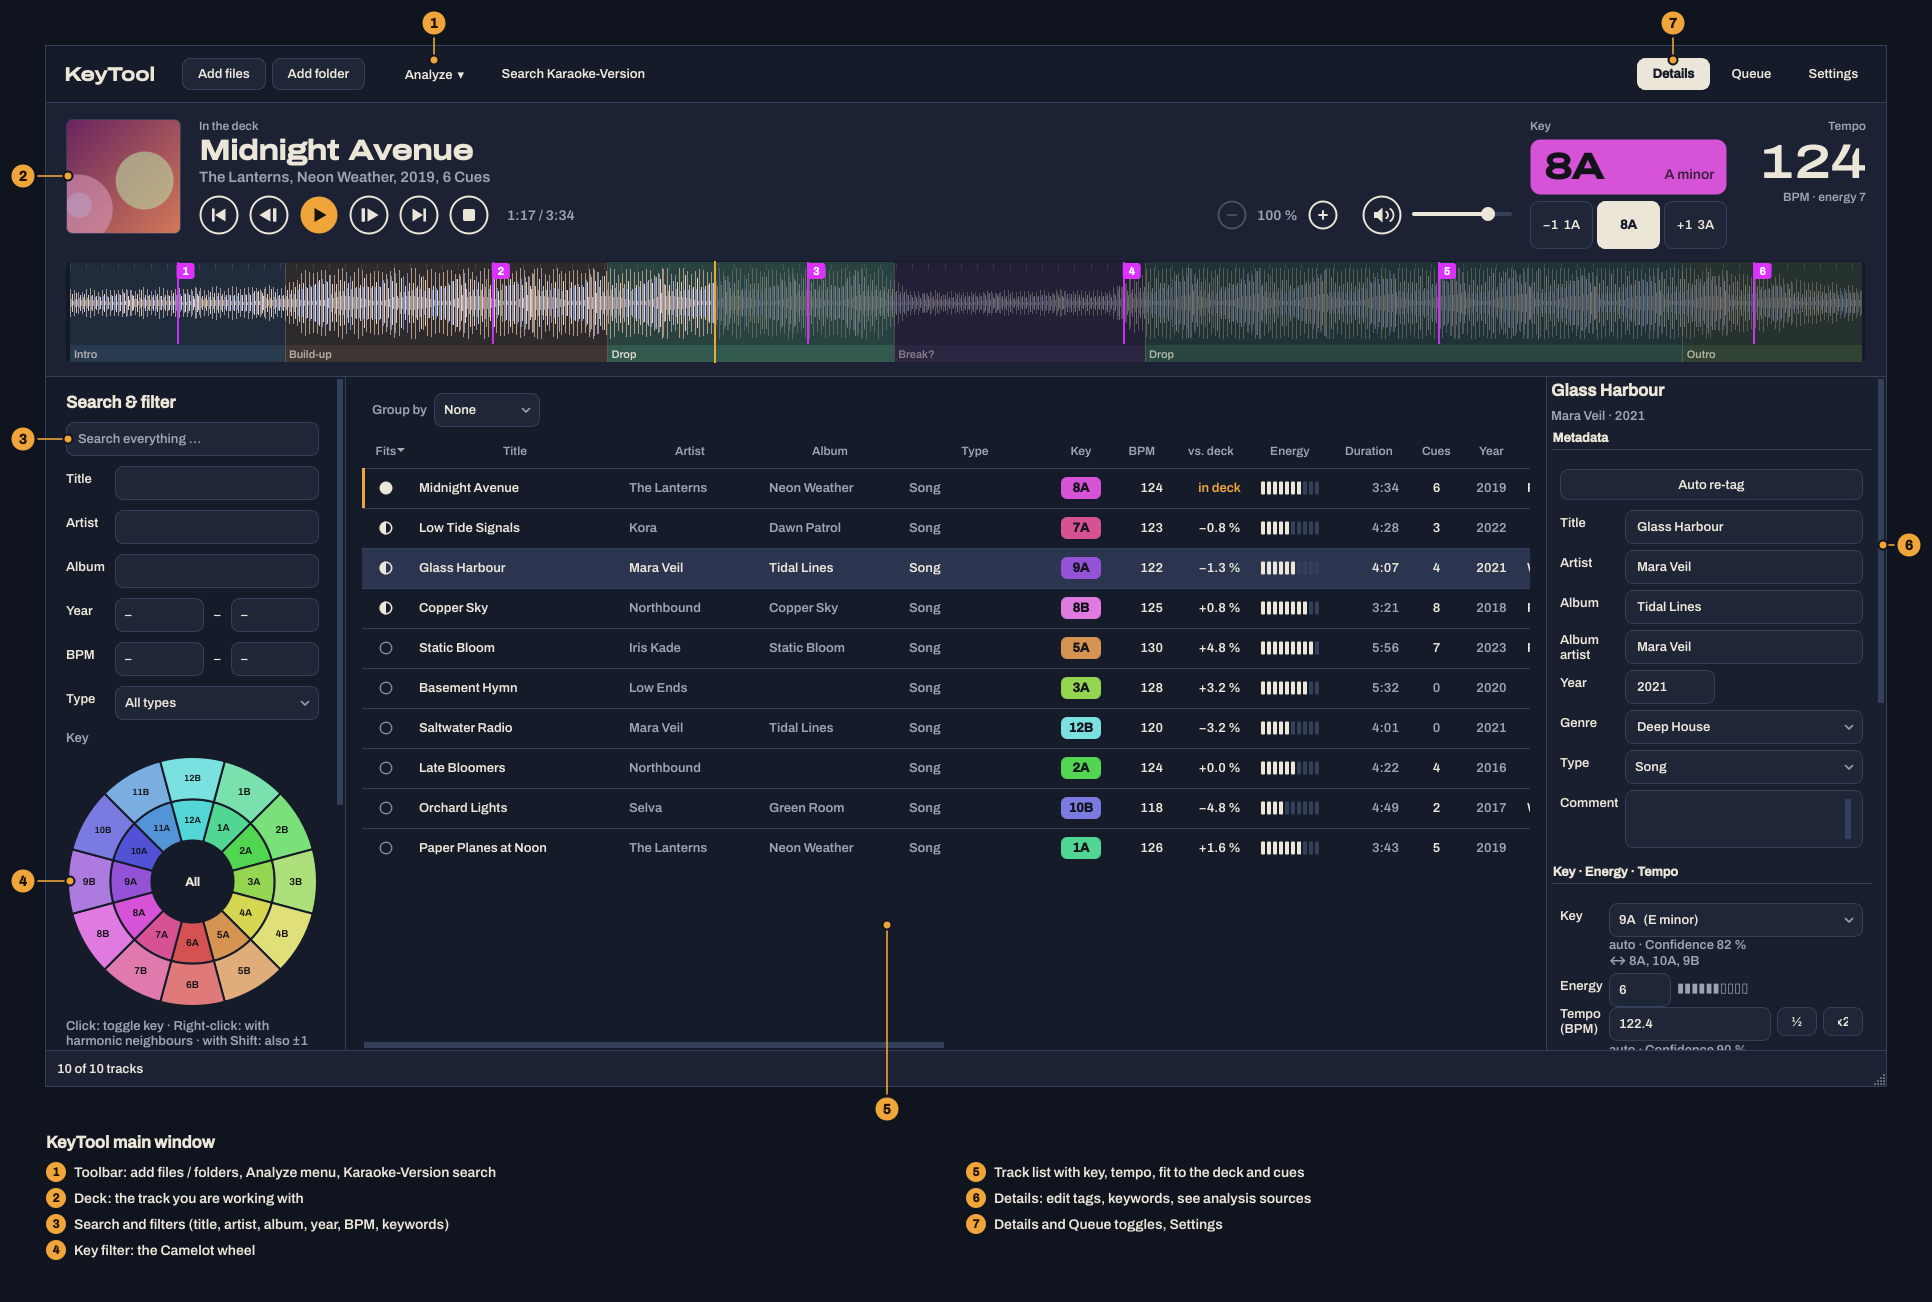
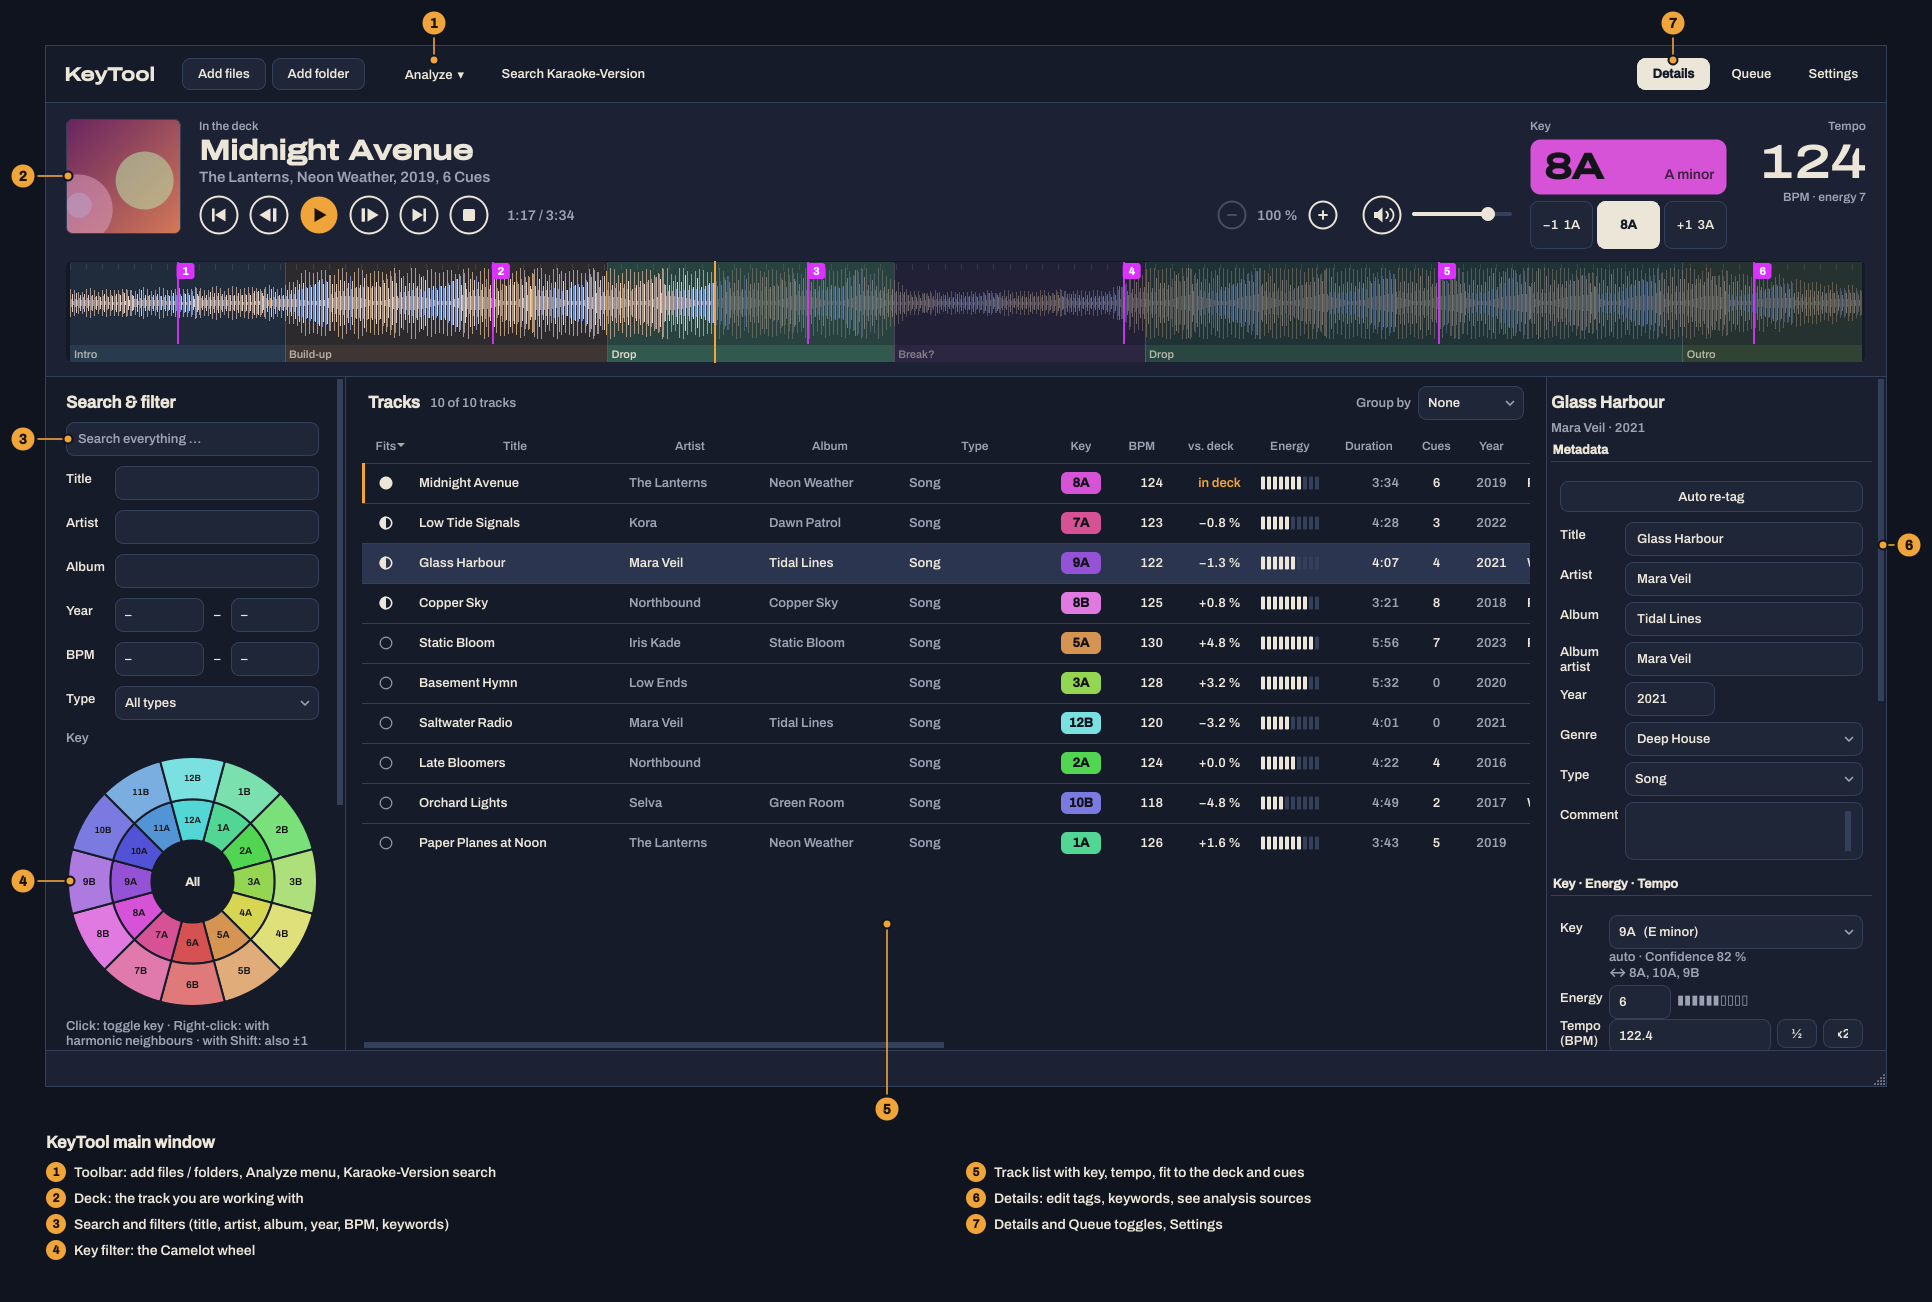
Track list header: title "Tracks" with the count, grouping on the right; panel titles aligned
- Header panel above the list: title "Tracks" (German "Titelliste"), the number of tracks next to it
  (moved from the status bar), "Group by" on the right, centred on the title line.
- "Search & filter", "Tracks" and the details title now start at the same height (shared PANEL_TOP).
- Screenshots updated.

Claude-Session: https://claude.ai/code/session_01WHPo8iWepkYybUHWQj5Dcp

diff --git a/keytool/gui/main_window.py b/keytool/gui/main_window.py
@@ -24,7 +24,7 @@ from .player import PlayerPanel
 from .queue_panel import QueueBridge, QueuePanel
 from .settings_dialog import SettingsDialog
 from .theme import apply_theme, resolve_theme
-from .widgets import (AudioTypePicker, DetailPanel, GROUP_BY, GROUP_ROLE, HEADER_ROLE, ID_ROLE, KeyFilter,
+from .widgets import (AudioTypePicker, DetailPanel, GROUP_BY, PANEL_TOP, GROUP_ROLE, HEADER_ROLE, ID_ROLE, KeyFilter,
                       KeywordFilter, SORT_ROLE, TrackDelegate, TrackModel, Translatable)
 
 
@@ -89,6 +89,7 @@ class SortProxy(QSortFilterProxyModel):
 # =========================================================================== main window
 class MainWindow(QMainWindow, Translatable):
     # default widths of the compact columns (widened if the header needs more room in the UI language)
+    RAIL_TOP = PANEL_TOP   # top margin of the panel titles (filters, track list, details) - keeps them aligned
     DEFAULT_WIDTHS = (44, 210, 140, 140, 150, 62, 60, 78, 80, 56, 52, 52, 150, 100, 160, 56, 64, 90, 120, 300)
     NARROW_COLUMNS = {"fit": 44, "key": 62, "bpm": 60, "delta": 78, "energy": 80, "duration": 56, "cues": 52,
                       "year": 52}
@@ -212,7 +213,7 @@ class MainWindow(QMainWindow, Translatable):
         # ---------------- left: filters
         left = QWidget()
         lv = QVBoxLayout(left)
-        lv.setContentsMargins(20, 16, 16, 16)
+        lv.setContentsMargins(20, self.RAIL_TOP, 16, 16)
         lv.setSpacing(10)
         h = QLabel(); h.setObjectName("heading"); self.t(h.setText, "filters"); lv.addWidget(h)
         self.f_text = QLineEdit(); self.f_text.setClearButtonEnabled(True)
@@ -317,14 +318,31 @@ class MainWindow(QMainWindow, Translatable):
         self.track_tip.tip.set_dark(resolve_theme(self.s.theme) == "dark")
         self.drop_hint = QLabel(); self.drop_hint.setObjectName("dropHint"); self.drop_hint.setAlignment(Qt.AlignCenter)
         self.t(self.drop_hint.setText, "drop_hint")
-        # group bar above the list: none / artist / album
+        # header panel above the list: title "Tracks" on the left, grouping (none / artist / album) on the right
         self.group_combo = QComboBox(); self.group_combo.setObjectName("groupBy")
         for mode in GROUP_BY:
             self.group_combo.addItem("", mode)
         gl = QLabel(); gl.setObjectName("dim"); self.t(gl.setText, "group_by")
+        self.list_title = QLabel(); self.list_title.setObjectName("heading"); self.t(self.list_title.setText, "tracks_heading")
         list_page = QWidget(); lpv = QVBoxLayout(list_page); lpv.setContentsMargins(0, 0, 0, 0); lpv.setSpacing(0)
-        gbar = QWidget(); gbar.setObjectName("groupBar"); gbl = QHBoxLayout(gbar); gbl.setContentsMargins(10, 8, 10, 6)
-        gbl.addWidget(gl); gbl.addWidget(self.group_combo); gbl.addStretch(1)
+        # number of tracks next to the title ("14 of 13,063 tracks"), baseline-aligned with it
+        self.count_lbl = QLabel(); self.count_lbl.setObjectName("dim")
+        # the title is top-aligned with "Search & filter" (same top margin as the filter rail)
+        gbar = QWidget(); gbar.setObjectName("listHeader"); gbl = QHBoxLayout(gbar)
+        gbl.setContentsMargins(6, self.RAIL_TOP, 6, 8); gbl.setSpacing(8)
+        title_w = QWidget(); title_box = QHBoxLayout(title_w)
+        title_box.setContentsMargins(0, 0, 0, 0); title_box.setSpacing(10)
+        title_box.addWidget(self.list_title, 0, Qt.AlignBaseline); title_box.addWidget(self.count_lbl, 0, Qt.AlignBaseline)
+        group_w = QWidget(); group_box = QHBoxLayout(group_w); group_box.setContentsMargins(0, 0, 0, 0)
+        group_box.addWidget(gl); group_box.addWidget(self.group_combo)
+        gbl.addWidget(title_w, 0, Qt.AlignVCenter)
+        gbl.addStretch(1)
+        gbl.addWidget(group_w, 0, Qt.AlignVCenter)
+        # the drop-down is taller than the title: start the row higher by half the difference, so the title's
+        # top lines up with "Search & filter" and the drop-down sits centred on the title line
+        lift = max(0, (group_w.sizeHint().height() - title_w.sizeHint().height()) // 2)
+        gbl.setContentsMargins(6, max(0, self.RAIL_TOP - lift), 6, 8)
+        gl.setBuddy(self.group_combo)
         lpv.addWidget(gbar); lpv.addWidget(self.table, 1)
         mode = getattr(self.s, "group_by", "none")
         self.group_combo.setCurrentIndex(max(0, GROUP_BY.index(mode) if mode in GROUP_BY else 0))
@@ -363,7 +381,7 @@ class MainWindow(QMainWindow, Translatable):
                   context=Qt.WidgetWithChildrenShortcut)
         QShortcut(QKeySequence(Qt.Key_Space), self.player, activated=self.player.toggle,
                   context=Qt.WidgetWithChildrenShortcut)
-        cw = QWidget(); cv = QVBoxLayout(cw); cv.setContentsMargins(12, 8, 12, 0)
+        cw = QWidget(); cv = QVBoxLayout(cw); cv.setContentsMargins(12, 0, 12, 0)   # top: RAIL_TOP in the header
         cv.addWidget(self.center)
         split.addWidget(cw)
 
@@ -407,8 +425,6 @@ class MainWindow(QMainWindow, Translatable):
 
     def _build_statusbar(self):
         sb = self.statusBar()
-        self.count_lbl = QLabel()
-        sb.addWidget(self.count_lbl)
         self.progress = QProgressBar(); self.progress.setFixedWidth(260); self.progress.hide()
         self.cancel_btn = QPushButton(); self.t(self.cancel_btn.setText, "cancel")
         self.cancel_btn.clicked.connect(self.cancel_work); self.cancel_btn.hide()

diff --git a/keytool/gui/widgets.py b/keytool/gui/widgets.py
@@ -25,6 +25,7 @@ FIT_ROLE = Qt.UserRole + 4       # 2 same key, 1 harmonic neighbour, 0 no match,
 GROUP_ROLE = Qt.UserRole + 5     # sort key of the row's group ("" when the list is not grouped)
 HEADER_ROLE = Qt.UserRole + 6    # True for a group header row
 GROUP_BY = ("none", "artist", "album")
+PANEL_TOP = 16                   # top margin of the panel titles (filters, track list, details): keeps them aligned
 
 
 def harmonic_fit(code: str | None, deck_code: str | None) -> int | None:
@@ -876,7 +877,7 @@ class DetailPanel(QWidget, Translatable):
         self._loading = False
         self.dirty: set[str] = set()
         lay = QVBoxLayout(self)
-        lay.setContentsMargins(4, 4, 4, 4)
+        lay.setContentsMargins(4, PANEL_TOP, 4, 4)     # title top-aligned with "Search & filter" and "Tracks"
         lay.setSpacing(8)
 
         self.heading = QLabel(); self.heading.setObjectName("heading"); self.heading.setWordWrap(True)

diff --git a/keytool/locales/fr.py b/keytool/locales/fr.py
@@ -175,6 +175,7 @@ STRINGS: dict[str, str] = {
     "audio_type_tip": "Plusieurs possibles. Détecté par l'analyse à partir du titre et du nom de fichier ; les types définis à la main sont conservés.",
     "all_types": "Tous les types",
     "no_type": "Aucun type",
+    "tracks_heading": "Pistes",
     "group_by": "Grouper",
     "group_none": "Aucun",
     "group_artist": "Artiste",

diff --git a/keytool/locales/es.py b/keytool/locales/es.py
@@ -180,6 +180,7 @@ STRINGS: dict[str, str] = {
     "audio_type_tip": "Puede haber varios. El análisis lo detecta a partir del título y del nombre del archivo; los tipos puestos a mano se conservan.",
     "all_types": "Todos los tipos",
     "no_type": "Sin tipo",
+    "tracks_heading": "Pistas",
     "group_by": "Agrupar",
     "group_none": "Ninguno",
     "group_artist": "Artista",

diff --git a/keytool/i18n.py b/keytool/i18n.py
@@ -174,6 +174,7 @@ _T: dict[str, tuple[str, str]] = {
                        "file name; types set by hand are kept."),
     "all_types": ("Alle Typen", "All types"),
     "no_type": ("Kein Typ", "No type"),
+    "tracks_heading": ("Titelliste", "Tracks"),
     "group_by": ("Gruppieren", "Group by"),
     "group_none": ("Keine", "None"),
     "group_artist": ("Interpret", "Artist"),

diff --git a/keytool/locales/it.py b/keytool/locales/it.py
@@ -175,6 +175,7 @@ STRINGS: dict[str, str] = {
     "audio_type_tip": "Più tipi possibili. Rilevato dall'analisi da titolo e nome del file; i tipi impostati a mano vengono mantenuti.",
     "all_types": "Tutti i tipi",
     "no_type": "Nessun tipo",
+    "tracks_heading": "Brani",
     "group_by": "Raggruppa",
     "group_none": "Nessuno",
     "group_artist": "Artista",
